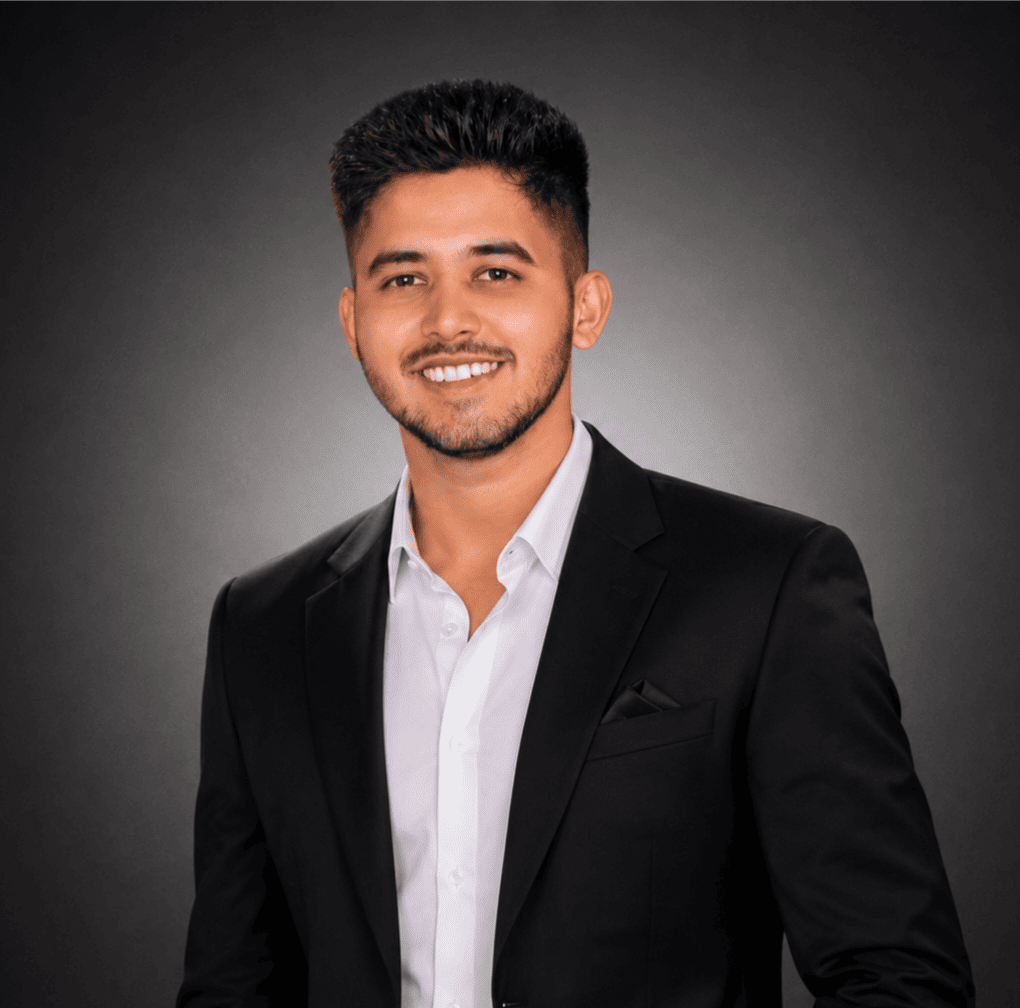
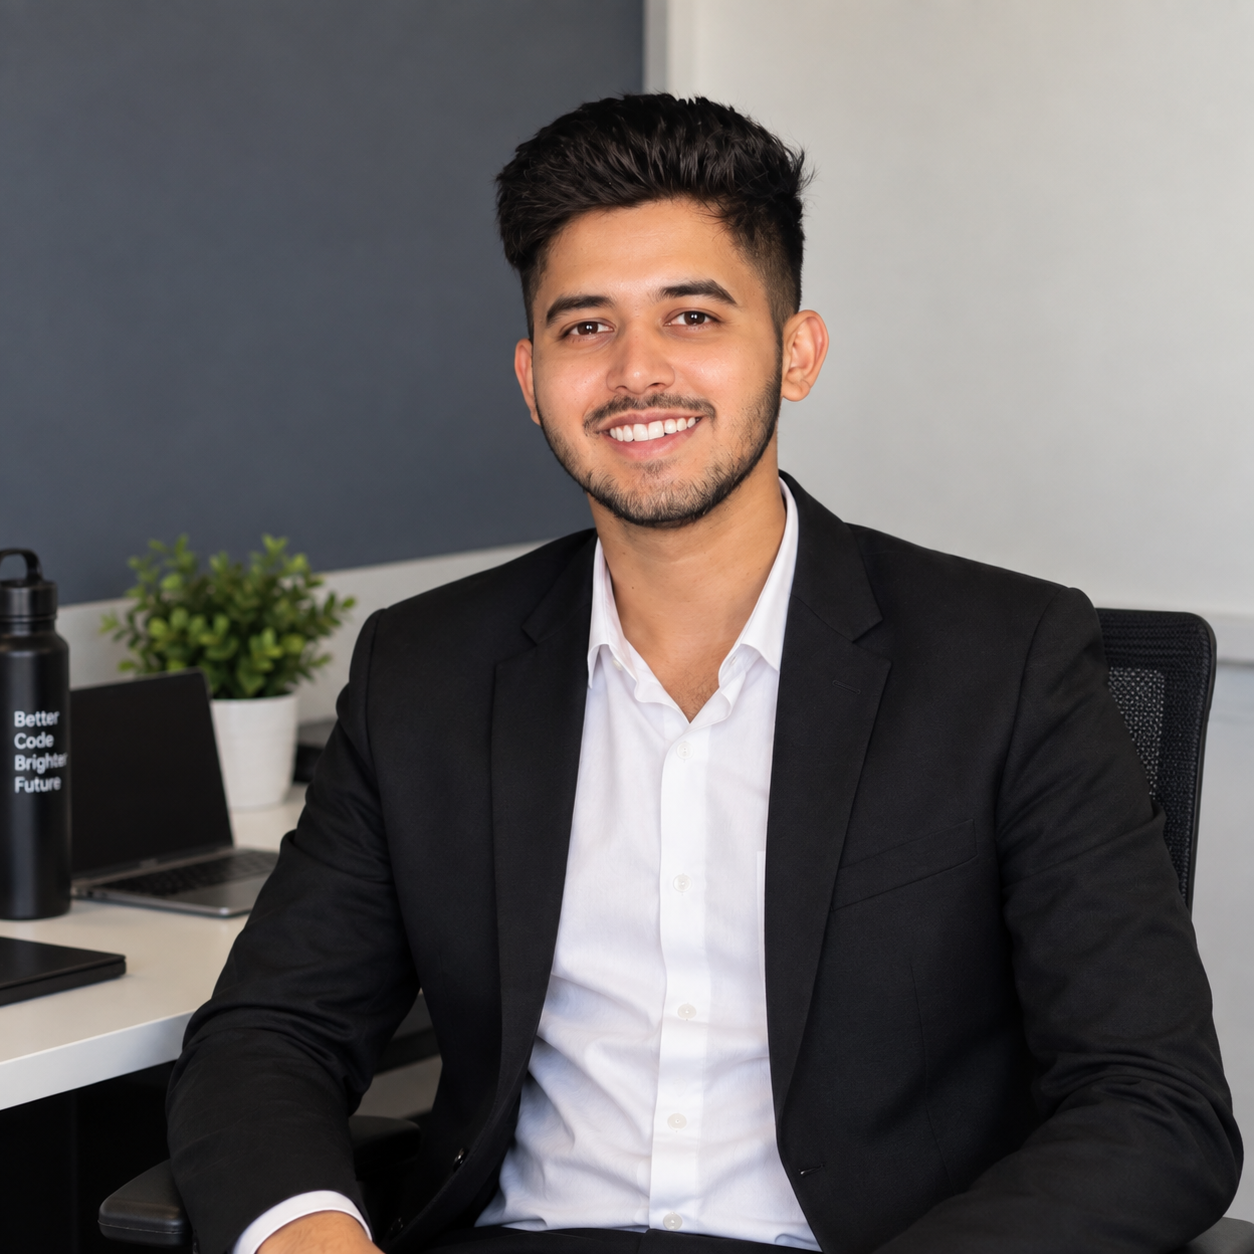
style: update hero text styles and image dimensions

diff --git a/app/components/Hero.tsx b/app/components/Hero.tsx
@@ -61,7 +61,7 @@ export function Hero() {
 
             {/* Main Headline */}
             <motion.h1
-              className="text-hero max-w-[760px] mb-6 tracking-tight text-[var(--color-text)]"
+              className="text-hero max-w-[620px] lg:max-w-none mb-6 tracking-tight text-[var(--color-text)]"
               variants={containerVariants}
               initial="hidden"
               animate="visible"
@@ -178,21 +178,14 @@ export function Hero() {
                   <img
                     src={PERSONAL.avatarUrl}
                     alt={`${PERSONAL.name}, ${PERSONAL.role}`}
-                    width={1020}
-                    height={1008}
+                    width={1254}
+                    height={1254}
                     loading="eager"
-                    className="w-full h-full object-cover object-top"
+                    className="w-full h-full object-cover object-[60%_20%]"
                   />
 
-                  {/* Edge vignette blends the studio backdrop into the page */}
-                  <div
-                    className="absolute inset-0 pointer-events-none"
-                    style={{
-                      background:
-                        "radial-gradient(ellipse at 50% 35%, transparent 35%, rgba(10,10,11,0.55) 100%)",
-                    }}
-                  />
-                  <div className="absolute inset-x-0 bottom-0 h-24 pointer-events-none bg-gradient-to-t from-[var(--color-bg-card)] to-transparent" />
+                  {/* Gentle bottom fade into the caption bar */}
+                  <div className="absolute inset-x-0 bottom-0 h-20 pointer-events-none bg-gradient-to-t from-[var(--color-bg-card)]/70 to-transparent" />
                 </div>
 
                 {/* Caption bar */}

diff --git a/app/app.css b/app/app.css
@@ -64,8 +64,8 @@ body::before {
    ============================================================ */
 
 .text-hero {
-  font-size: clamp(2.75rem, 7vw, 6.5rem);
-  line-height: 0.95;
+  font-size: clamp(2.25rem, 4.6vw, 4.25rem);
+  line-height: 1.05;
   letter-spacing: -0.03em;
   font-weight: 700;
 }
